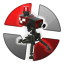
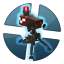
GameSupport: TF2 mini sentry gun daily/global award images were swapped accidently. GameSupport: Added Swapped robot_arm_combo_kill and robot_arm_blender_kill daily/global award images. GameSupport: Added bleed_kill daily/global images and ribbons. GameSupport: Added robot_arm_combo_kill ribbons.

diff --git a/web/updater/52.php b/web/updater/52.php
@@ -1,0 +1,32 @@
+<?php
+	if ( !defined('IN_UPDATER') )
+	{
+		die('Do not access this file directly.');
+	}		
+
+	$dbversion = 52;
+	$version = "1.6.11-beta1";
+
+	$tfgames = array();
+	$result = $db->query("SELECT code FROM hlstats_Games WHERE realgame = 'tf'");
+	while ($rowdata = $db->fetch_row($result))
+	{ 
+		array_push($tfgames, $db->escape($rowdata[0]));
+	}
+	
+	foreach ($tfgames as $game)
+	{
+		$db->query("
+			INSERT IGNORE INTO `hlstats_Ribbons` (`awardCode`, `awardCount`, `special`, `game`, `image`, `ribbonName`) VALUES
+				('robot_arm_combo_kill', 1, 0, 'tf', '1_robot_arm_combo_kill.png', 'Bronze Gunslinger Combo Kill'),
+				('robot_arm_combo_kill', 5, 0, 'tf', '2_robot_arm_combo_kill.png', 'Silver Gunslinger Combo Kill'),
+				('robot_arm_combo_kill', 10, 0, 'tf', '3_robot_arm_combo_kill.png', 'Gold Gunslinger Combo Kill'),
+				('bleed_kill', 1, 0, 'tf', '1_bleed_kill.png', 'Bronze Bleed Kills'),
+				('bleed_kill', 5, 0, 'tf', '2_bleed_kill.png', 'Silver Bleed Kills'),
+				('bleed_kill', 10, 0, 'tf', '3_bleed_kill.png', 'Gold Bleed Kills');
+		");
+	}
+	
+	$db->query("UPDATE hlstats_Options SET `value` = '$version' WHERE `keyname` = 'version'");
+	$db->query("UPDATE hlstats_Options SET `value` = '$dbversion' WHERE `keyname` = 'dbversion'");
+?>
